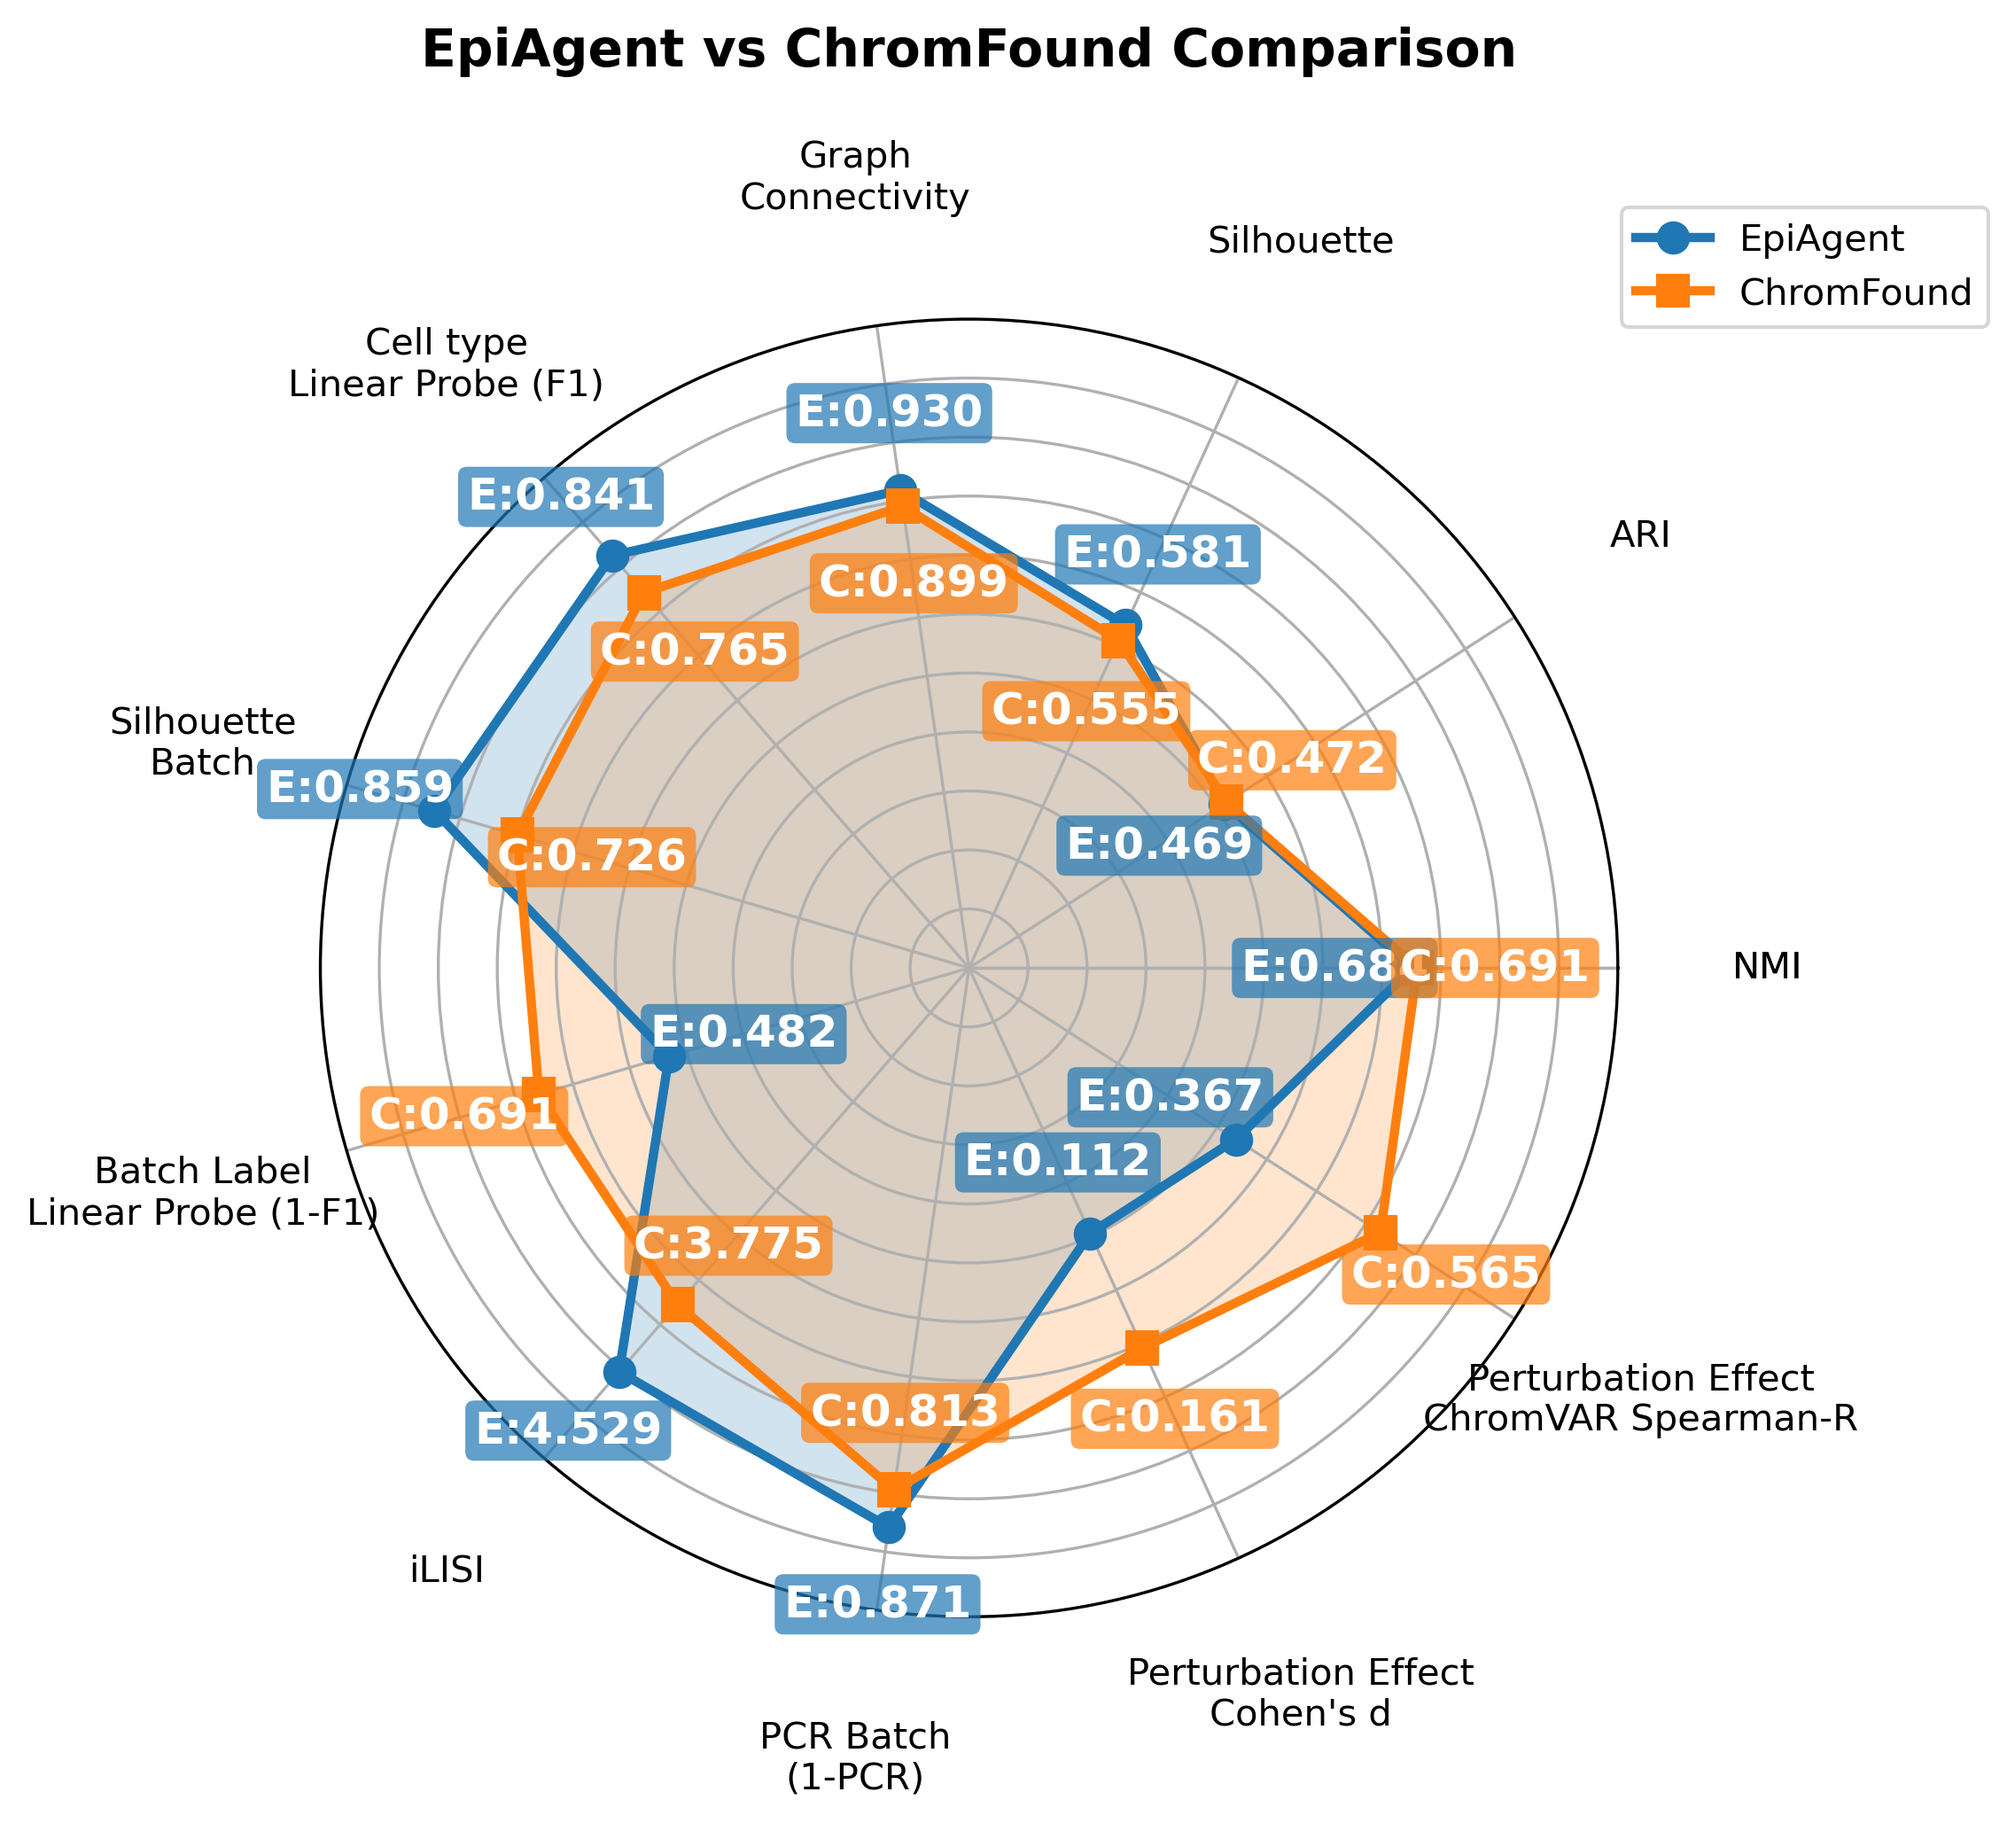
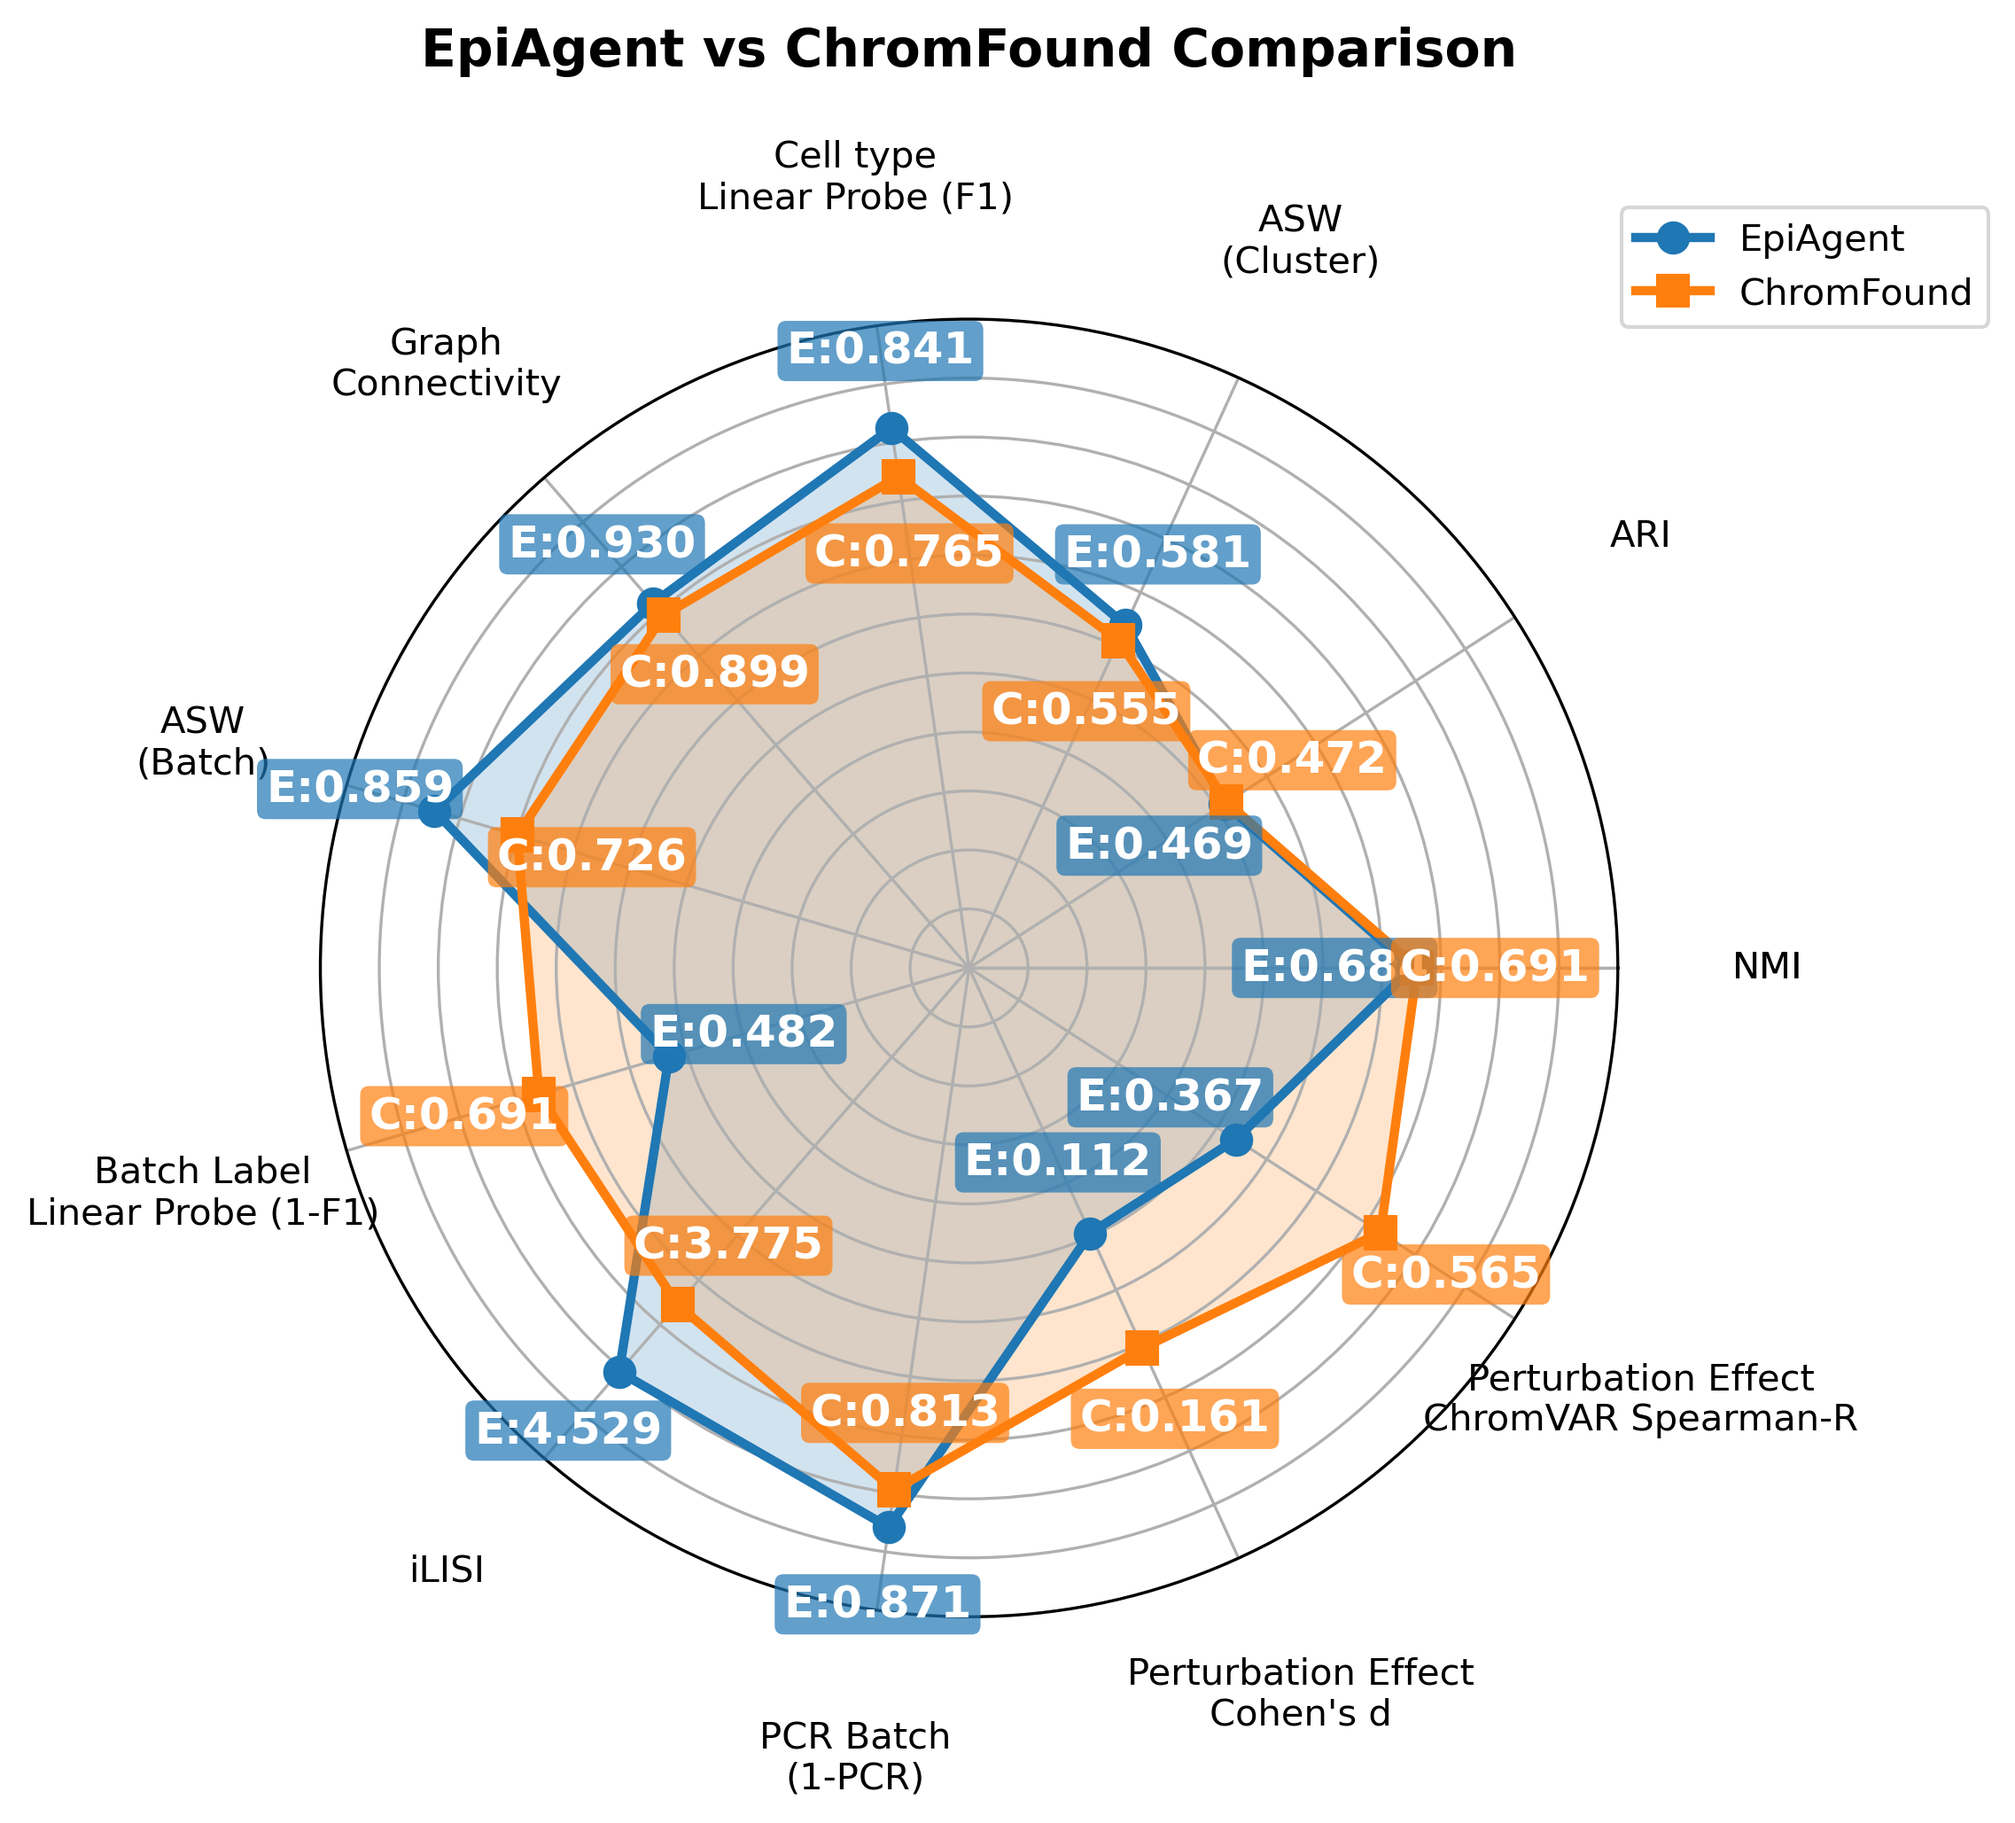
change order in radar plot slightly

diff --git a/benchmarks/radar_plot_comparison.py b/benchmarks/radar_plot_comparison.py
@@ -209,10 +209,10 @@ print(f"ChromFound metrics: {chromfound_metrics}")
 labels = [
     "NMI",
     "ARI",
-    "Silhouette",
-    "Graph\nConnectivity",
+    "ASW\n(Cluster)",
     "Cell type\nLinear Probe (F1)",
-    "Silhouette\nBatch",
+    "Graph\nConnectivity",
+    "ASW\n(Batch)",
     "Batch Label\nLinear Probe (1-F1)",
     "iLISI",
     "PCR Batch\n(1-PCR)",
@@ -221,14 +221,14 @@ labels = [
 ]
 
 mins = np.array([0, 0, 0, 0, 0, 0, 0, 0, 0, 0, 0])
-maxs = np.array([1, 1, 1, 1.25, 1, 1, 1, 5.5, 1, 0.25, 0.75])
+maxs = np.array([1, 1, 1, 1, 1.25, 1, 1, 5.5, 1, 0.25, 0.75])
 
 epiagent_values = np.array([
     epiagent_metrics['nmi'],
     epiagent_metrics['ari'],
     epiagent_metrics['silhouette'],
-    epiagent_metrics['graph_connectivity'],
     epiagent_metrics['cell_type_linear_probe_f1'],
+    epiagent_metrics['graph_connectivity'],
     epiagent_metrics['silhouette_batch'],
     1 - epiagent_metrics['batch_linear_probe_f1'],
     epiagent_metrics['ilisi'],
@@ -241,8 +241,8 @@ chromfound_values = np.array([
     chromfound_metrics['nmi'],
     chromfound_metrics['ari'],
     chromfound_metrics['silhouette'],
-    chromfound_metrics['graph_connectivity'],
     chromfound_metrics['cell_type_linear_probe_f1'],
+    chromfound_metrics['graph_connectivity'],
     chromfound_metrics['silhouette_batch'],
     1 - chromfound_metrics['batch_linear_probe_f1'],
     chromfound_metrics['ilisi'],
